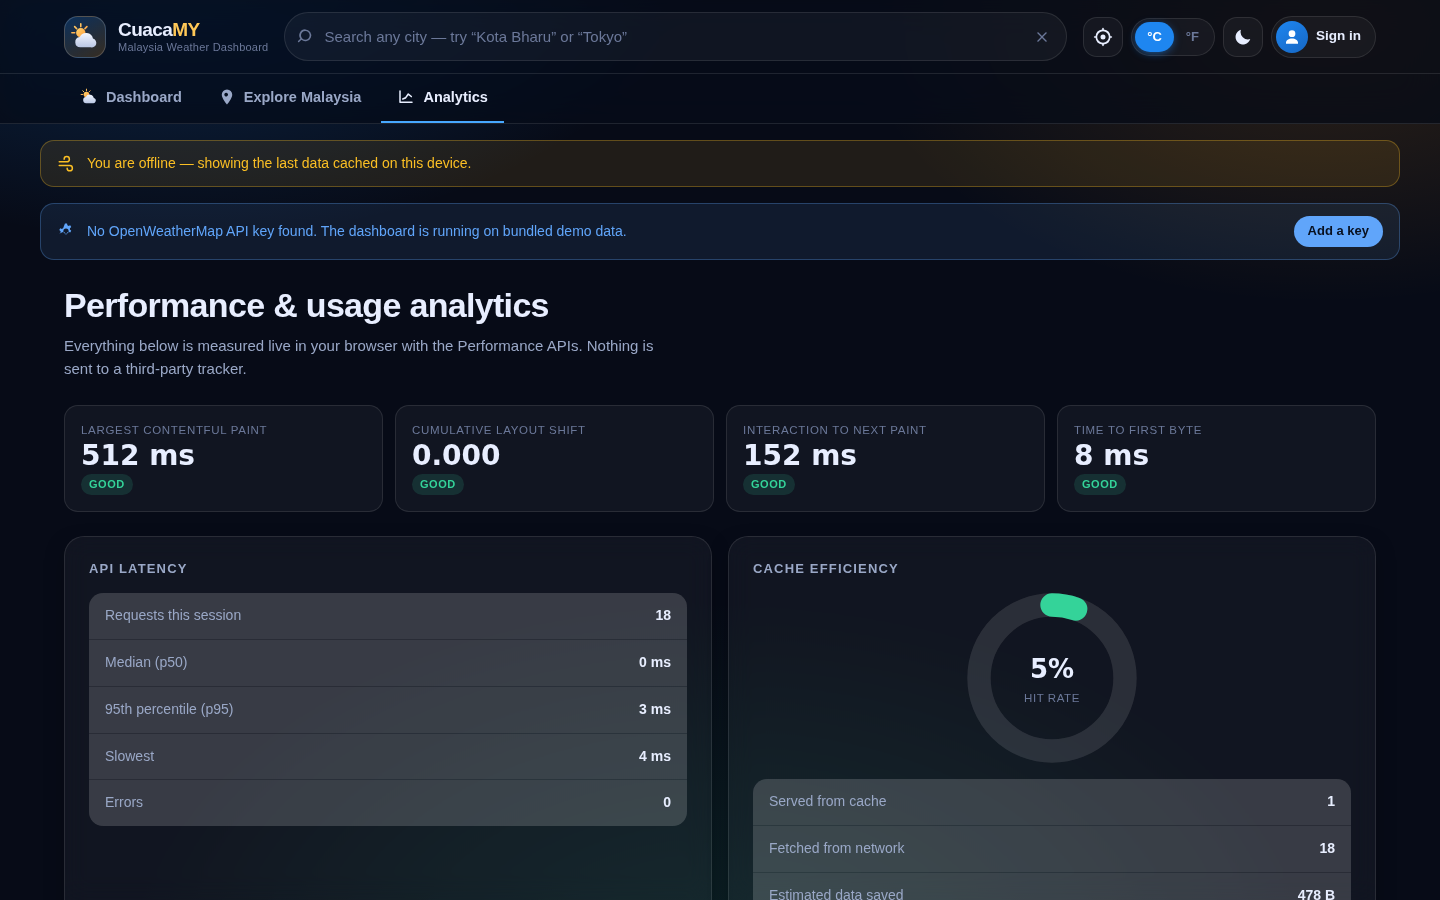
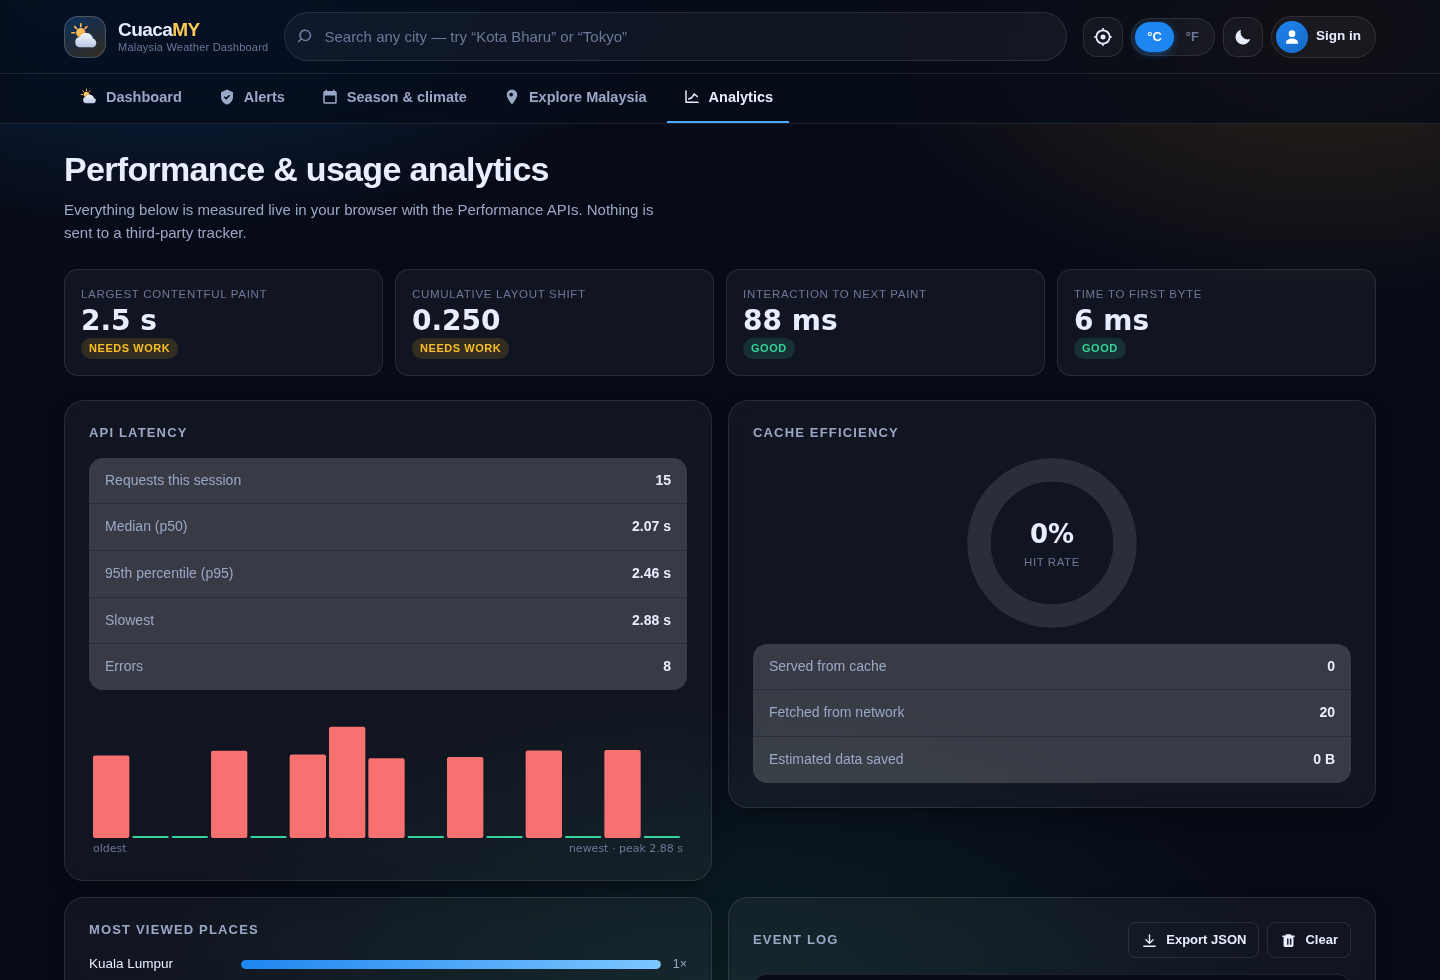
Enforce [hidden], credit the real data sources, refresh the screenshots
[hidden] is a user-agent rule, so any author declaration that sets display
overrides it. Four components did — .banner, .tab__count, .strength and
.search__clear — so a banner dismissed in code stayed on screen, the
search box showed a clear button over an empty field, and the Alerts tab
carried a badge with no alerts behind it. Enforced globally rather than
patched per component, and the end-to-end job now fails if anything
marked hidden is still rendered.

The footer credited only OpenWeatherMap, which is now the optional
provider rather than the default. It names Open-Meteo, Copernicus GloFAS
and USGS, and the README gains a table of every source with whether it
needs a key, plus a section describing what each test job actually
proves.

Screenshots regenerated for the five-tab layout.

Audited before pushing: keyboard search and tab navigation, both themes
across all five views at 1440px and 360px, no overflow anywhere, no
unlabelled controls, no duplicate ids, no console errors.

diff --git a/index.html b/index.html
@@ -705,7 +705,10 @@
 <footer class="footer">
   <p>
     <strong>CuacaMY</strong> — built with vanilla HTML, CSS and JavaScript. No frameworks, no build step.
-    Weather data by <a href="https://openweathermap.org/" target="_blank" rel="noopener noreferrer">OpenWeatherMap</a>.
+    Weather and air quality by <a href="https://open-meteo.com/" target="_blank" rel="noopener noreferrer">Open-Meteo</a>,
+    river discharge from <a href="https://global-flood.emergency.copernicus.eu/" target="_blank" rel="noopener noreferrer">Copernicus GloFAS</a>,
+    earthquakes from <a href="https://earthquake.usgs.gov/" target="_blank" rel="noopener noreferrer">USGS</a>.
+    Optional <a href="https://openweathermap.org/" target="_blank" rel="noopener noreferrer">OpenWeatherMap</a>.
   </p>
   <p class="footer__meta">
     <span id="foot-version">v1.0.0</span>

diff --git a/style.css b/style.css
@@ -100,6 +100,13 @@
 /* ── 02. RESET & BASE ──────────────────────────────────────────────────── */
 *, *::before, *::after { box-sizing: border-box; }
 
+/* The browser hides [hidden] elements with `display: none`, but that comes
+   from the user-agent stylesheet, so ANY author rule setting `display` beats
+   it — a `.banner { display: flex }` element stays visible with the attribute
+   set. Several components here do exactly that, so the attribute is enforced
+   once, globally, rather than remembered at every call site. */
+[hidden] { display: none !important; }
+
 html { -webkit-text-size-adjust: 100%; scroll-behavior: smooth; overflow-x: hidden; }
 
 body {

diff --git a/app.js b/app.js
@@ -31,7 +31,7 @@
  * 01 · CONFIGURATION & CONSTANTS
  * ═══════════════════════════════════════════════════════════════════════════ */
 
-const VERSION = '1.0.0';
+const VERSION = '1.1.0';
 
 /**
  * Runtime configuration, resolved in priority order:

diff --git a/README.md b/README.md
@@ -61,6 +61,10 @@ to a deterministic synthetic model rather than showing an empty shell, and label
 
 ### More screens
 
+| Hazard alerts | Season &amp; climate |
+|---|---|
+| <img src="docs/screenshot-alerts.png" alt="Hazard alerts view listing graded alerts with their readings and sources, plus recent earthquakes"> | <img src="docs/screenshot-climate.png" alt="Season and climate view showing the current monsoon phase and the four-phase calendar"> |
+
 | Explore Malaysia | Performance analytics |
 |---|---|
 | <img src="docs/screenshot-explore.png" alt="Explore Malaysia view with state filters and a live comparison of all 16 state capitals"> | <img src="docs/screenshot-analytics.png" alt="Analytics view showing Core Web Vitals, API latency percentiles and cache hit rate"> |
@@ -370,9 +374,37 @@ feature-detected and degrade quietly.
 
 ## Data & credits
 
-Weather, geocoding and air quality from [OpenWeatherMap](https://openweathermap.org/).
-Place coordinates compiled by hand for this project. Weather icons, UI icons, app icons
-and the social preview were all authored for this repository — no icon library.
+| Source | Used for | Key needed |
+|---|---|---|
+| [Open-Meteo](https://open-meteo.com/) | Forecast, air quality, geocoding, historical reanalysis | No |
+| [Copernicus GloFAS](https://global-flood.emergency.copernicus.eu/) (via Open-Meteo) | River discharge for flood risk | No |
+| [USGS Earthquake Hazards Program](https://earthquake.usgs.gov/) | Seismic events, tsunami flags, PAGER alerts | No |
+| [BigDataCloud](https://www.bigdatacloud.com/) | Reverse geocoding outside Malaysia | No |
+| [OpenWeatherMap](https://openweathermap.org/) | Optional alternative provider | Yes |
+
+Thresholds follow [MetMalaysia](https://www.met.gov.my/) warning criteria and the
+[Malaysian DOE](https://www.doe.gov.my/) Air Pollutant Index. Gauge-level flood data
+belongs to [JPS InfoBanjir](https://publicinfobanjir.water.gov.my/), which the app links
+to rather than trying to replace.
+
+The 206 Malaysian place coordinates were compiled by hand for this project. Every weather
+icon, UI icon, app icon and the social preview were authored for this repository — no
+icon library.
+
+## Testing
+
+Everything is verified where it can be, and nothing is claimed that isn't:
+
+| Job | What it proves |
+|---|---|
+| **Syntax & assets** | Every JS file parses; the manifest is valid JSON; every path referenced by `index.html` and the manifest exists |
+| **API contracts** | Calls all nine external endpoints for real and fails if a field the app reads disappears. Also runs daily, because an API can change on a day with no commits |
+| **End-to-end** | Drives the real site in Chromium against live APIs: rendered temperature, five forecast cards, a painted chart, the computed Air Pollutant Index, the hazard sweep, the earthquake feed, GloFAS, the assistant, the 30-year climate computation, a physical-plausibility bound on the climate anomaly, that nothing marked `[hidden]` is visible, a clean console, no failed requests, and zero horizontal overflow at 390px across all five views |
+| **Live site** | After each deploy, fetches the published URL and fails unless it returns 200 and serves the app and its assets |
+
+That last category exists because this project was built in a sandbox whose egress policy
+blocks every one of these hosts. Rather than assert correctness it could not observe, the
+verification was moved to where the network works.
 
 ## License
 
